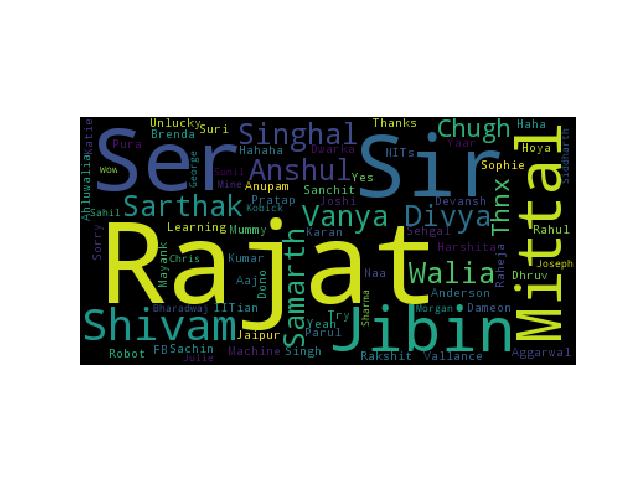
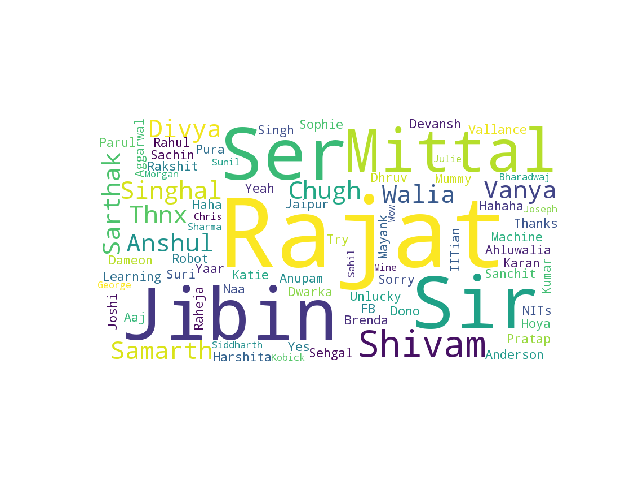
Modify WordClouds

diff --git a/wordclouds.py b/wordclouds.py
@@ -3,12 +3,17 @@ import os
 import matplotlib.pyplot as plt
 import numpy as np
 import re
-from wordcloud import WordCloud, STOPWORDS
+import random
+from wordcloud import WordCloud, STOPWORDS, ImageColorGenerator
 import nltk
+from PIL import Image
 nltk.download('maxent_ne_chunker')
 nltk.download('words')
 nltk.download('punkt')
 nltk.download('averaged_perceptron_tagger')
+
+def grey_color_func(word, font_size, position, orientation, random_state=None, **kwargs):
+    return "hsl(0, 0%%, %d%%)" % random.randint(1, 50)
 
 def wordcloud():
     loc = input('Enter facebook archive extracted location: ')
@@ -24,39 +29,65 @@ def wordcloud():
     with open(fname) as f:
         base_data = json.load(f)
     
-    data = base_data["comments"]
     final_text = ""
-    for ele in data:
-        if 'data' in ele:
-            ctext = ele["data"][0]["comment"]["comment"]
-            final_text = final_text + " " + ctext
-    
-    wordcloud = WordCloud(relative_scaling = 1.0,
-                      stopwords = set(STOPWORDS)
-                      ).generate(final_text)
-    plt.imshow(wordcloud)
-    plt.axis("off")
-    print("WordCloud of Your Comments text generated.")
-    plt.show()
-    
-    
+    if "comments" in base_data:
+        data = base_data["comments"]
+        
+        for ele in data:
+            if 'data' in ele:
+                ctext = ele["data"][0]["comment"]["comment"]
+                final_text = final_text + " " + ctext
+        final_comments = final_text
+    else:
+        print("No Comments found in data")
+        
+    fname = loc+'/posts/your_posts.json'
+    with open(fname) as f:
+        base_data = json.load(f)
+
+    if "status_updates" in base_data:
+        data = base_data["status_updates"]
+        
+        for ele in data:
+            if "data" in ele:
+                if "post" in ele["data"][0]:
+                    #print(ele["data"][0]["post"])
+                    final_text = final_text + ' ' + ele["data"][0]["post"]
+
+    if final_text != "":
+        mask = np.array(Image.open("images/mymask.png"))
+        wordcloud = WordCloud(background_color = "white", mask = mask, max_font_size=300, relative_scaling = 1.0,
+                          stopwords = set(STOPWORDS)
+                          ).generate(final_text)
+        image_colors = ImageColorGenerator(mask)
+        
+        plt.imshow(wordcloud.recolor(color_func=image_colors), interpolation="bilinear")
+        plt.axis("off")
+        print("WordCloud of Your Comments & Posts text generated.")
+        plt.show()
+    else:
+        print("No Comments and Posts Text Found")
+
+        
     #Friends Tagged
-    
-    friend_names = ""
-    for sent in nltk.sent_tokenize(final_text):
-        for chunk in nltk.ne_chunk(nltk.pos_tag(nltk.word_tokenize(sent))):
-            if hasattr(chunk, 'label'):
-                if(chunk.label()[0]=='P'):
-                    friend_names = friend_names + " " + ' '.join(c[0] for c in chunk.leaves())
-    
-    wordcloud = WordCloud(relative_scaling = 1.0,
-                      stopwords = set(STOPWORDS)
-                      ).generate(friend_names)
-    
-    plt.imshow(wordcloud)
-    plt.axis("off")
-    print("WordCloud of Your friends mostly tagged by you")
-    plt.show()
+    if final_comments!="":
+        friend_names = ""
+        for sent in nltk.sent_tokenize(final_comments):
+            for chunk in nltk.ne_chunk(nltk.pos_tag(nltk.word_tokenize(sent))):
+                if hasattr(chunk, 'label'):
+                    if(chunk.label()[0]=='P'):
+                        friend_names = friend_names + " " + ' '.join(c[0] for c in chunk.leaves())
+
+        wordcloud = WordCloud(background_color = "white", mask = mask,relative_scaling = 1.0,
+                          stopwords = set(STOPWORDS)
+                          ).generate(friend_names)
+
+        plt.imshow(wordcloud)
+        plt.axis("off")
+        print("WordCloud of Your friends mostly tagged by you")
+        plt.show()
+    else:
+        print("No Comments and Posts Text Found")
     
 if __name__ == '__main__':
     wordcloud()
